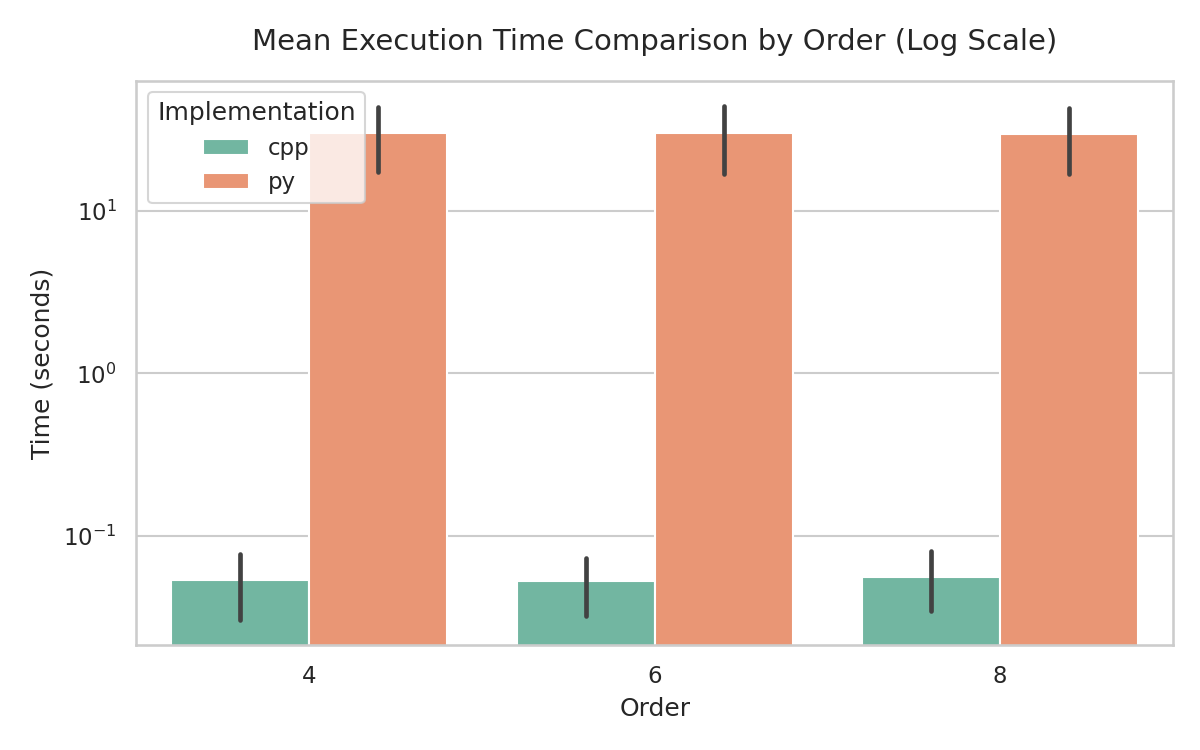
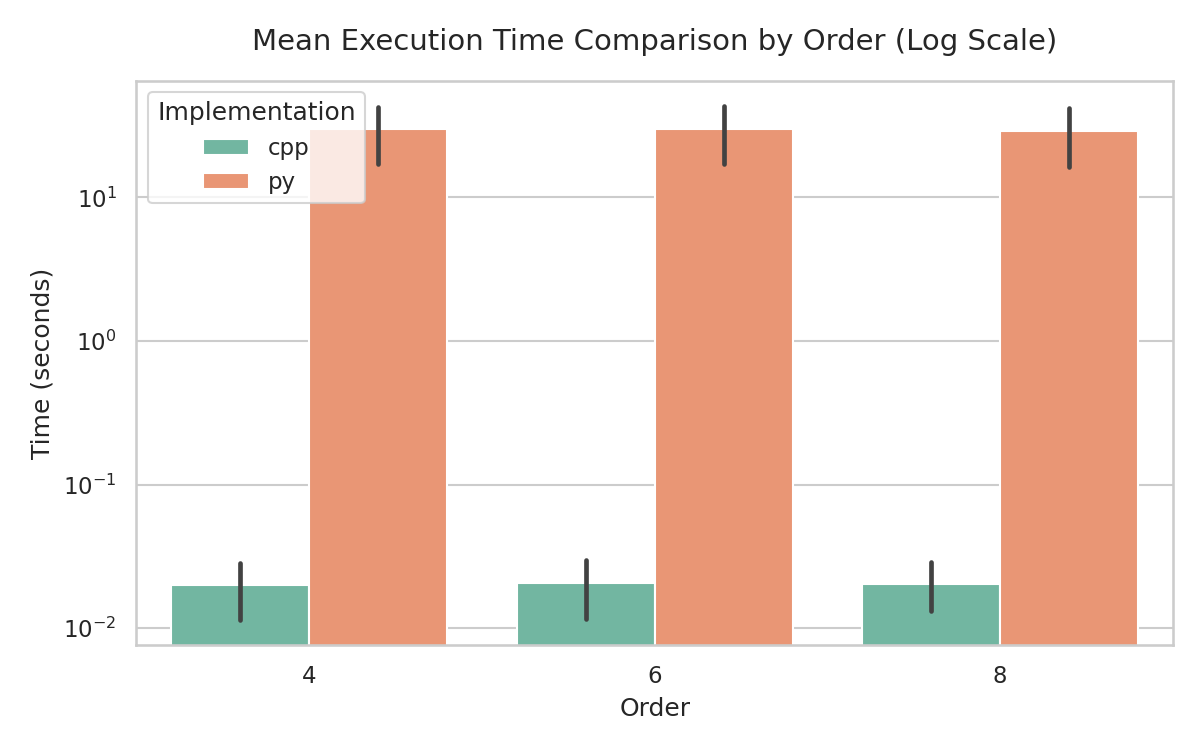
updated pricing: 600x to 1500x performance increase

diff --git a/signature_pricing_cpp.py b/signature_pricing_cpp.py
@@ -2,122 +2,57 @@ import signature_core as core
 import numpy as np
 import scipy
 
-def psi_derivative(
-		u: float, t: float, psi: core.Sig2D,
-		model_sig: core.Sig2D, model_sig_squared: core.Sig2D,
-		rho: float, trunc: int,
-		sig_cache: core.ShuffleCache = None
-	) -> core.Sig2D:
-
-	psi_1 = core.projection_on(psi, 0b0, 1)
-	psi_2 = core.projection_on(psi, 0b1, 1)
-	
-	res = core.shuffle(psi_2, psi_2, trunc, sig_cache)
-	res *= 0.5
-
-	b = core.shuffle(model_sig, psi_2, trunc, sig_cache)
-	b *= ( rho * 1j * u )
-	res += b
-
-	d = model_sig_squared.copy()
-	d *= (0.5 * (-u**2 - 1j * u))
-	res += d
-
-	e = core.projection_on(psi, 0b11, 2)
-	e *= 0.5
-	res += e
-
-	res += psi_1
-
-	return res
-
-def simulate_psi_euler(psi_0: core.Sig2D, u: float, maturity: float, model_sig: core.Sig2D, model_sig_squared, rk_subdivs: int, rho: float, trunc: int, sig_cache: core.ShuffleCache = None):
-	psi = psi_0.copy()
-	dt = float(maturity / rk_subdivs)
-	for i in range(rk_subdivs):
-		deriv = psi_derivative(u, i*dt, psi, model_sig, model_sig_squared, rho, trunc, sig_cache)
-		psi = psi + (dt * deriv)
-	return psi
-
-def simulate_psi_rk4(psi_0: core.Sig2D, u: float, maturity: float, model_sig: core.Sig2D, model_sig_squared, rk_subdivs: int, rho: float, trunc: int, sig_cache: core.ShuffleCache = None):
-	psi = psi_0.copy()
-	dt = float(maturity / rk_subdivs)
-	for i in range(rk_subdivs):
-		k1 = psi_derivative(u, i*dt, psi, model_sig, model_sig_squared, rho, trunc, sig_cache)
-		k2 = psi_derivative(u, i*dt+dt/2, psi + (0.5*dt)*k1, model_sig, model_sig_squared, rho, trunc, sig_cache)
-		k3 = psi_derivative(u, i*dt+dt/2, psi + (0.5*dt)*k2, model_sig, model_sig_squared, rho, trunc, sig_cache)
-		k4 = psi_derivative(u, (i+1)*dt, psi + dt*k3, model_sig, model_sig_squared, rho, trunc, sig_cache)
-		psi = psi + (dt/6)*(k1 + 2*k2 + 2*k3 +k4 )
-
-	return psi
-
-def european_call_bs(initial_price: float, maturity: float, strike: float, r, sigma):
+def european_call_bs(initial_price: float, maturity: float, strike: float, r: float, sigma: float) -> float:
     d1 = (np.log(initial_price / strike) + (r + 0.5 * sigma**2) * maturity) / (sigma * np.sqrt(maturity))
     d2 = d1 - sigma * np.sqrt(maturity)
-    call_price = initial_price * scipy.stats.norm.cdf(d1) - strike * np.exp(-r * maturity) * scipy.stats.norm.cdf(d2)
-    return call_price
+    return initial_price * scipy.stats.norm.cdf(d1) - strike * np.exp(-r * maturity) * scipy.stats.norm.cdf(d2)
 
 def european_call_sig(
-	initial_price: float,
-	maturity: float,
-	strike: float,
-	model_signature: core.Sig2D,
-	rho: float,
-	trunc: int = 4,
-	rk_subdivs = 50,
-	integral_subdivs = 100,
-	r_bs = None,
-	vol_bs = None,
-	cache = False
-	):
-	"""
-	Fair price of a european call option given the parameters, under a signature volatility model
-	The model assumes that dS_t = S_t bracket(signature, brownian_signature_t) d (rho W_t + sqrt(1-rho**2) W^{ortho}_t)
-	Params:
-		initial_price: S0 price of the asset at t=0
-		maturity: time to maturity
-		strike: K strike price
-		model_signature: a constant signature that defines the model
-		rho: correlation used for the model
-		trunc:
-		rk_subdivs:
-		integral_subdivs:
-		r_bs, vol_bs: Used for variance reduction, risk-free rate & vol
-	"""
+    initial_price: float,
+    maturity: float,
+    strike: float,
+    model_signature: core.Sig2D,
+    rho: float,
+    trunc: int = 4,
+    rk_subdivs: int = 50,
+    integral_subdivs: int = 100,
+    r_bs: float = None,
+    vol_bs: float = None,
+    cache = None
+) -> float:
+    """
+    Fair price of a European call option under a signature volatility model.
+    """
+    # Fix the cache initialization logic
+    if cache is None or cache is False:
+        cache = core.compute_shuffle_cache(trunc)
 
-	if cache is None:
-		cache = core.compute_shuffle_cache(trunc)
+    k_0 = np.log(initial_price / strike)
+    variance_reduction = (r_bs is not None) and (vol_bs is not None)
+    
+    # Precompute the squared signature on the C++ side if needed
+    model_sig_squared = core.shuffle(model_signature, model_signature, trunc, cache)
+    upper_bound = 500.0
 
-	k_0 = np.log( initial_price / strike )
-	bs_call = None
-	variance_reduction = (r_bs is not None) and (vol_bs is not None)
-	if variance_reduction:
-		bs_call = european_call_bs(initial_price, maturity, strike, r_bs, vol_bs)
+    if variance_reduction:
+        # High-speed C++ compiled VR integrand
+        def integrand_vr(u):
+            return core.european_call_integrand_vr(
+                u, k_0, maturity, model_signature, model_sig_squared, 
+                rho, r_bs, vol_bs, trunc, rk_subdivs, upper_bound, cache
+            )
+        
+        integral, _ = scipy.integrate.quad(integrand_vr, 0, np.inf, limit=integral_subdivs, epsabs=0.1)
+        bs_call = european_call_bs(initial_price, maturity, strike, r_bs, vol_bs)
+        return bs_call - strike / np.pi * integral
 
-	model_sig_squared = core.shuffle(model_signature, model_signature, trunc)
-	psi0 = core.Sig2D(trunc, 0.0)
-	upper_bound = 500
-
-	# default integrand
-	def integrand_vr(u):
-		return core.european_call_integrand_vr(u, k_0, maturity, model_signature, model_sig_squared, rho, r_bs, vol_bs, trunc, rk_subdivs, upper_bound, cache)
-
-	# integrand if the variance reduction is enabled
-	def integrand(u):
-		if u > upper_bound:
-			return 0
-		res = simulate_psi_rk4(psi0, u-0.5j, maturity, model_signature, model_sig_squared, rk_subdivs, rho, trunc, cache)
-		characteristic_val = np.exp( res.get_element([]) )
-		return np.real( np.exp(1j*(u-0.5j)*k_0) * characteristic_val ) / ( u**2 + 0.25 )
-
-	if variance_reduction:
-		integral, _ = scipy.integrate.quad(integrand_vr, 0, np.inf, limit=integral_subdivs, epsabs=0.1)
-	else:
-		integral, _ = scipy.integrate.quad(integrand, 0, np.inf, limit=integral_subdivs, epsabs=0.1)
-
-	if variance_reduction:
-		bs_call = european_call_bs(initial_price, maturity, strike, r_bs, vol_bs)
-		return bs_call - strike / np.pi * integral
-	else:
-		return initial_price - strike / np.pi * integral
-	
+    else:
+        # High-speed C++ compiled non-VR integrand
+        def integrand(u):
+            return core.european_call_integrand(
+                u, k_0, maturity, model_signature, model_sig_squared, 
+                rho, trunc, rk_subdivs, upper_bound, cache
+            )
+        
+        integral, _ = scipy.integrate.quad(integrand, 0, np.inf, limit=integral_subdivs, epsabs=0.1)
+        return initial_price - strike / np.pi * integral
